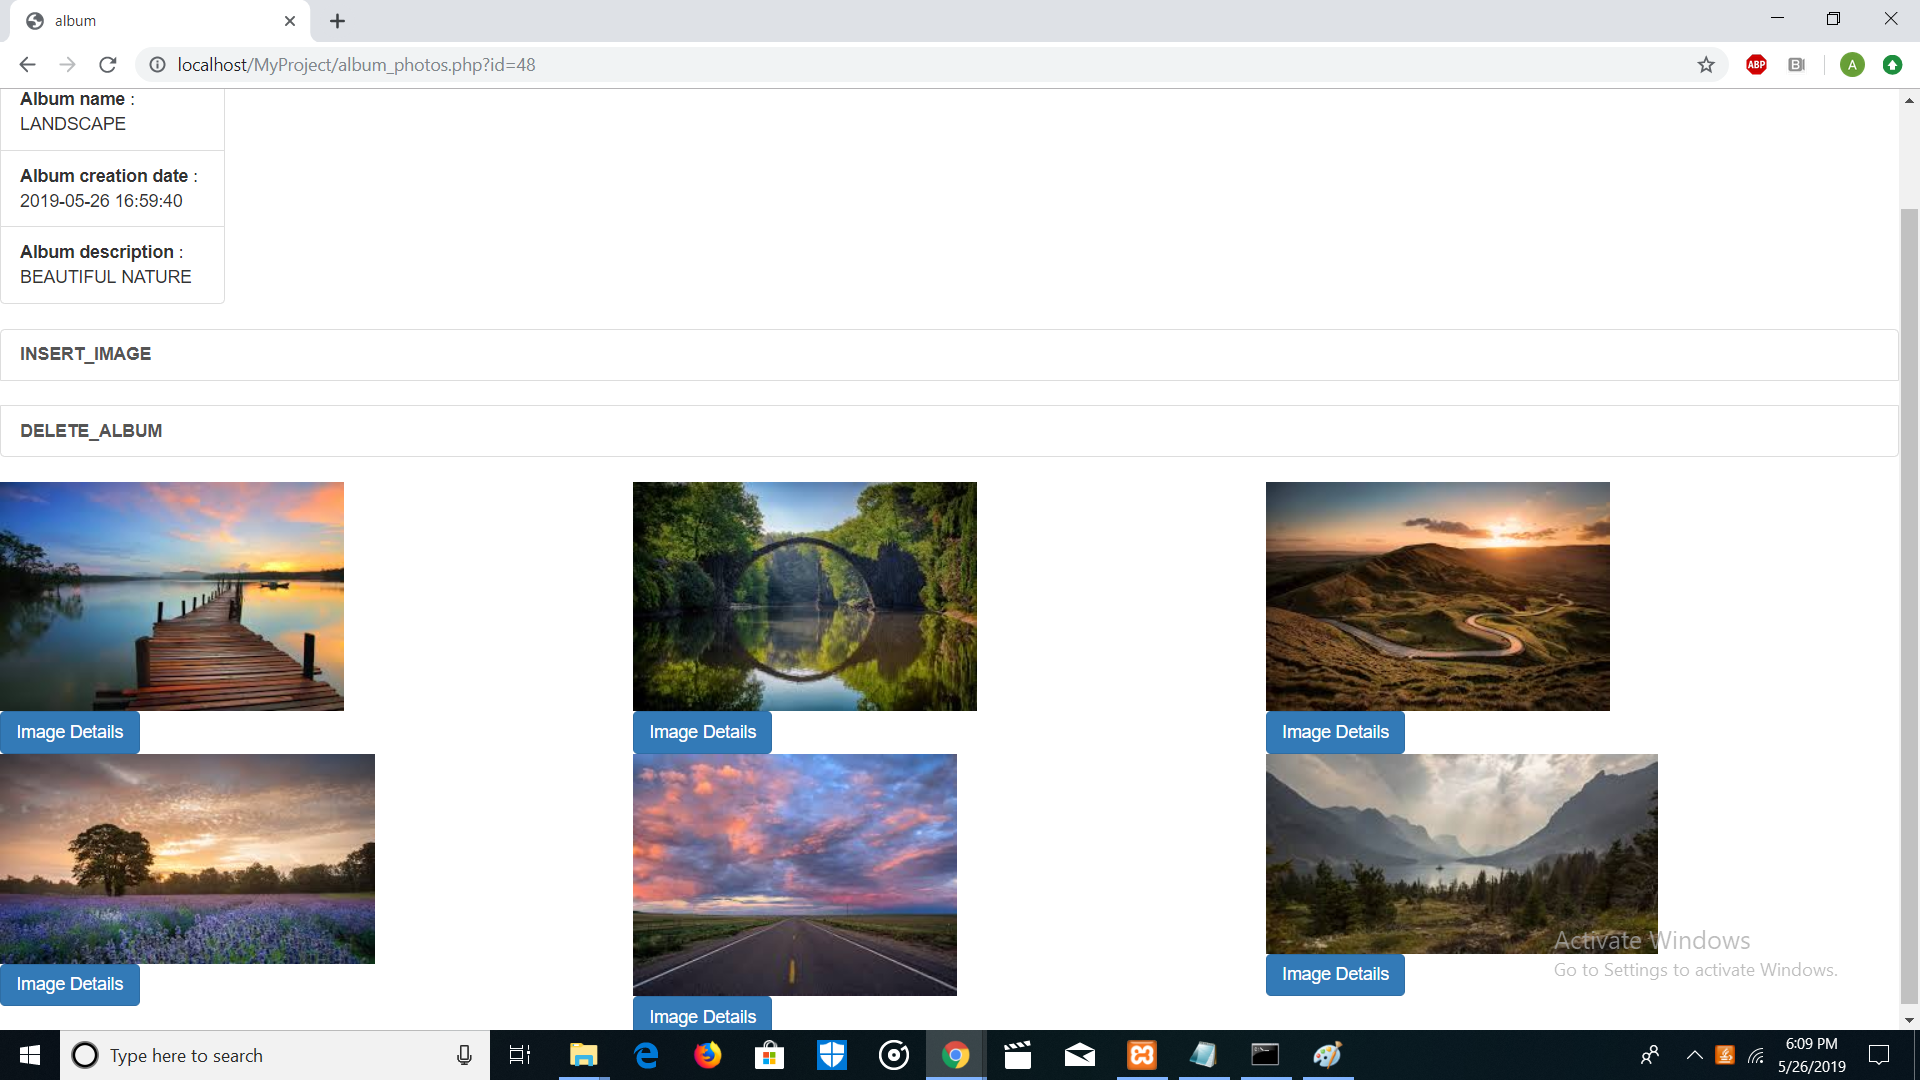
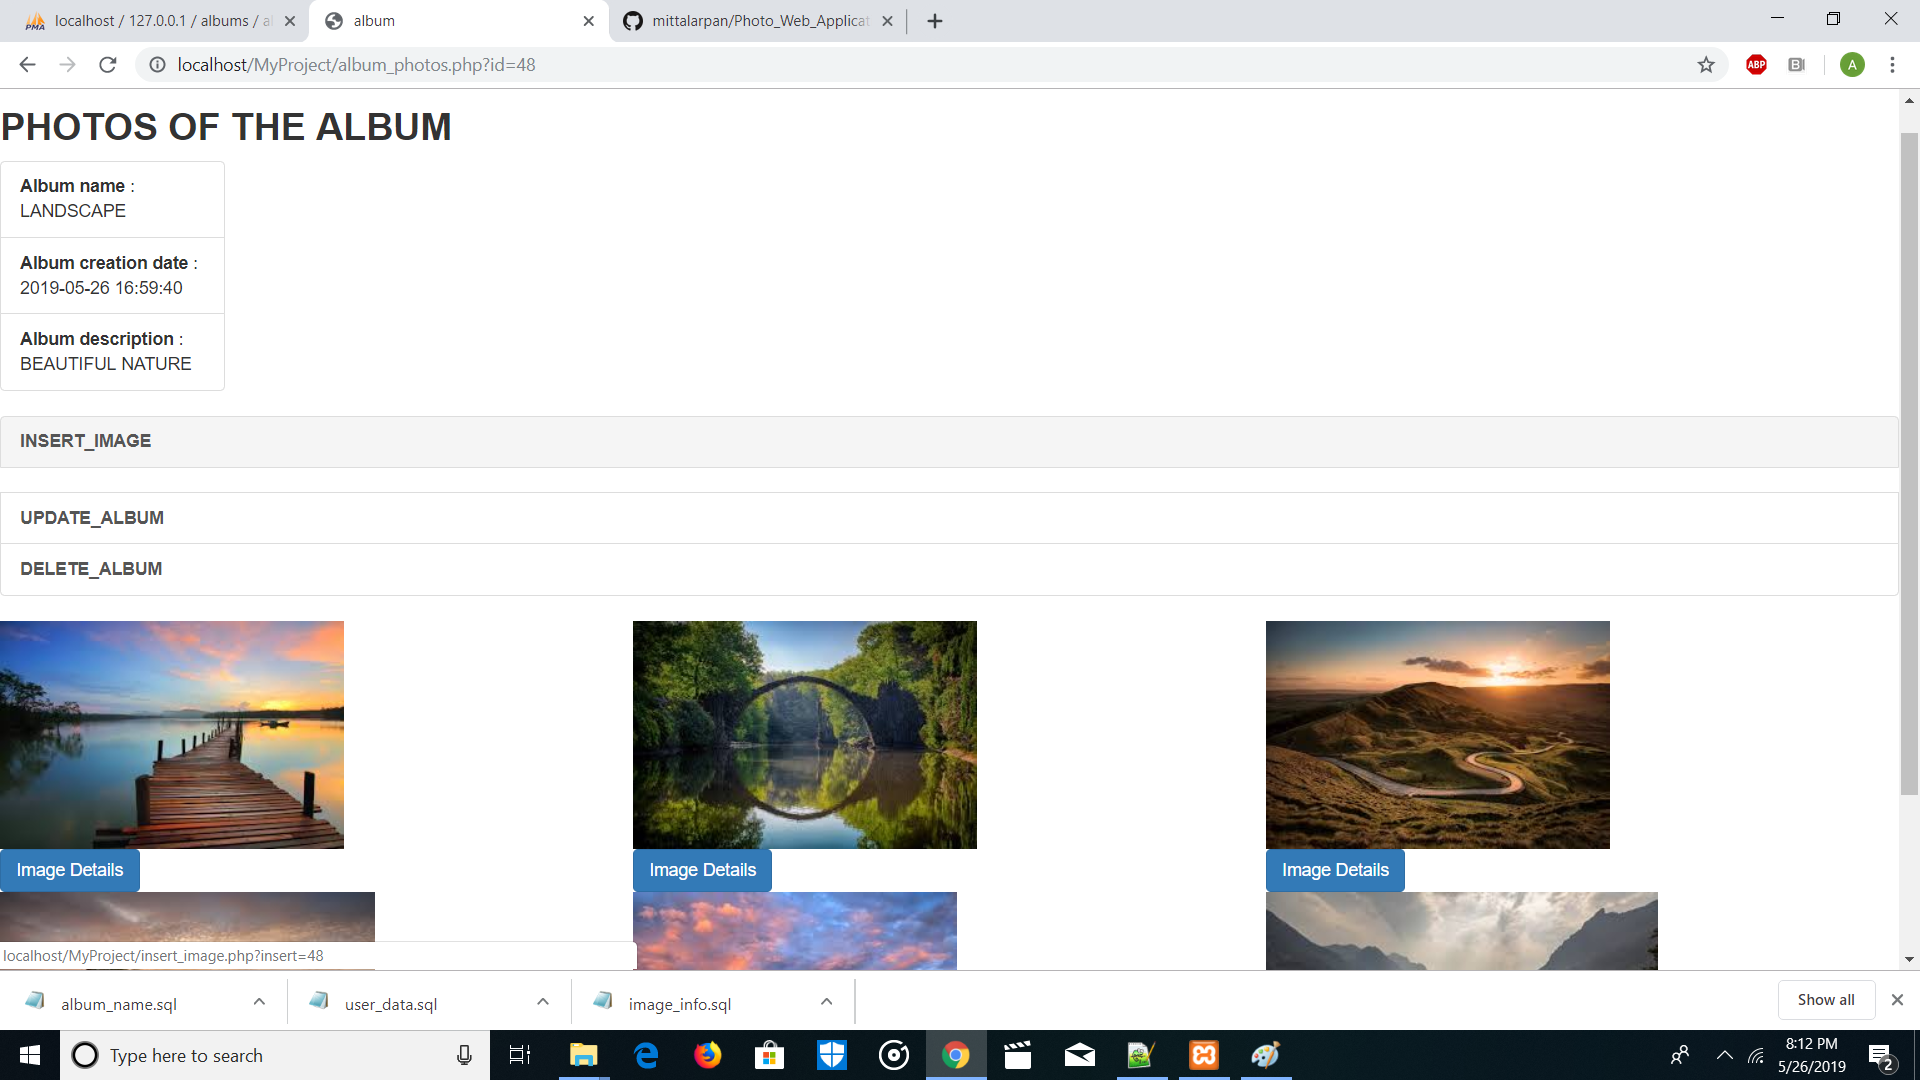
IX commit

diff --git a/update_album.php b/update_album.php
@@ -1,0 +1,55 @@
+<!DOCTYPE HTML>
+
+<?php
+$db = mysqli_connect("localhost" , "root" ,"" , "albums") ;
+?>
+
+<html>
+<head>
+<title>update ALBUM</title>
+</head>
+<body>
+
+<!-- Latest compiled and minified CSS -->
+<link rel="stylesheet" href="https://maxcdn.bootstrapcdn.com/bootstrap/3.3.7/css/bootstrap.min.css" integrity="sha384-BVYiiSIFeK1dGmJRAkycuHAHRg32OmUcww7on3RYdg4Va+PmSTsz/K68vbdEjh4u" crossorigin="anonymous">
+<form method = "post" action = "update_album.php" enctype = "multipart/form-data">
+  <div class="form-group">
+    <label for="ALBUM_NAME">ALBUM NAME</label>
+    <input type="text" name="albumName" class="form-control" id="albumName" placeholder="Enter Album Name">
+  </div>
+  <div class="form-group">
+    <label for="ALBUM_DESC">ALBUM DESC</label>
+    <input type="text" name = "alb_desc" class="form-control" id="alb_desc" placeholder="Description">
+  </div>
+   
+  <div class="form-group">
+    <label for=""></label>
+    <input type="hidden" name = "album_id" class="form-control" id="album_id" value = <?php if(isset($_GET['update'])){ echo $_GET['update'] ;  } ?> placeholder="">
+  </div>
+  
+  <button type="submit" name="please" class="btn btn-primary">Submit</button>
+  </form>
+<?php     
+
+if(isset($_POST['please'])){
+  $album_id = $_POST['album_id'] ;
+  echo $album_id ;   
+  if(isset($_POST['albumName']) AND !empty($_POST['albumName'])){
+    $album_name = $_POST['albumName'] ;
+    $query = "UPDATE album_name SET name = '$album_name' where album_id='$album_id'" ; 
+    $run_query = mysqli_query($db , $query) ; 
+  }
+  
+  if(isset($_POST['alb_desc']) AND !empty($_POST['alb_desc'])){
+    $album_desc = $_POST['alb_desc'] ;
+    $query = "UPDATE album_name SET description = '$album_desc' where album_id='$album_id'" ; 
+    $run_query = mysqli_query($db , $query) ; 
+  }
+  
+}
+
+
+?>   
+</body>
+
+</html>

diff --git a/update_user.php b/update_user.php
@@ -42,25 +42,25 @@ $db3 = mysqli_connect("localhost" , "root" ,"" , "user_info") ;
 if(isset($_POST['change'])){
 $user_id = $_POST['user_id'] ; 
 
-if(isset($_POST['firstName'])){
+if(isset($_POST['firstName']) AND !empty($_POST['firstName'])){
   $first_name = $_POST['firstName'] ;
   $query = "UPDATE user_data SET first_name = '$first_name' where user_id='$user_id'" ; 
   $run_query = mysqli_query($db3 , $query) ; 
   header("Refresh: 2;URL=user.php?") ;
 }
-if(isset($_POST['lastName'])){
+if(isset($_POST['lastName']) AND !empty($_POST['lastName'])){
   $last_name = $_POST['lastName'] ;
   $query = "UPDATE user_data SET last_name = '$last_name' where user_id='$user_id'" ; 
   $run_query = mysqli_query($db3 , $query) ; 
   header("Refresh: 2;URL=user.php?") ;
 }
-if(isset($_POST['password'])){
+if(isset($_POST['password']) AND !empty($_POST['password'])){
   $password = $_POST['password'] ;
   $query = "UPDATE user_data SET password = '$password' where user_id='$user_id'" ; 
   $run_query = mysqli_query($db3 , $query) ; 
   header("Refresh: 2;URL=user.php?") ;
 }
-if(isset($_POST['gender'])){
+if(isset($_POST['gender']) AND !empty($_POST['gender'])){
   $gender = $_POST['gender'] ;
   $query = "UPDATE user_data SET gender = '$gender' where user_id='$user_id'" ; 
   $run_query = mysqli_query($db3 , $query) ; 

diff --git a/insert_image.php b/insert_image.php
@@ -36,10 +36,7 @@ $db = mysqli_connect("localhost" , "root" ,"" , "db_images") ;
      </tr>
 
 
-     <tr>
-     <td align = "right" <b>Albun_name</b> </td> 
-     <td> <input type = "text" name = "alb_name"  /> </td>
-     </tr>
+     
      
      <tr>
      <td> <input type = "hidden" name = "albm_id" value = <?php if(isset($_GET['insert'])){ echo $_GET['insert'] ; }  ?> /> </td>
@@ -55,10 +52,10 @@ $db = mysqli_connect("localhost" , "root" ,"" , "db_images") ;
     $image_name = $_FILES['img']['name'] ;
     $temp_name = $_FILES['img']['tmp_name'] ; 
     $img_desc = $_POST['img_desc'] ;  
-    $alb_name = $_POST['alb_name'] ;
+   // $alb_name = $_POST['alb_name'] ;
     $al_id     = $_POST['albm_id'] ; 
     move_uploaded_file($temp_name , "images/$image_name") ;
-    $query = "insert into image_info(image , Date , description , name , album_id) values('$image_name' , NOW() , '$img_desc', '$alb_name' , '$al_id')" ; 
+    $query = "insert into image_info(image , Date , description  , album_id) values('$image_name' , NOW() , '$img_desc' , '$al_id')" ; 
      
     $run_query = mysqli_query($db , $query) ; 
     header("Refresh: 2;URL=album_photos.php?id=$al_id") ;     

diff --git a/album_photos.php b/album_photos.php
@@ -40,6 +40,7 @@ $db2 = mysqli_connect("localhost" , "root" ,"" , "albums") ;
   <div class='list-group'>
 
   <a href='insert_image.php?insert=$alb_id' class='list-group-item list-group-item-action'><b>INSERT_IMAGE</b> </a><br>
+  <a href='update_album.php?update=$alb_id' class='list-group-item list-group-item-action'><b>UPDATE_ALBUM </b></a>
   <a href='delete_album.php?delete=$alb_id' class='list-group-item list-group-item-action'><b>DELETE_ALBUM </b></a>
 
   </div>
